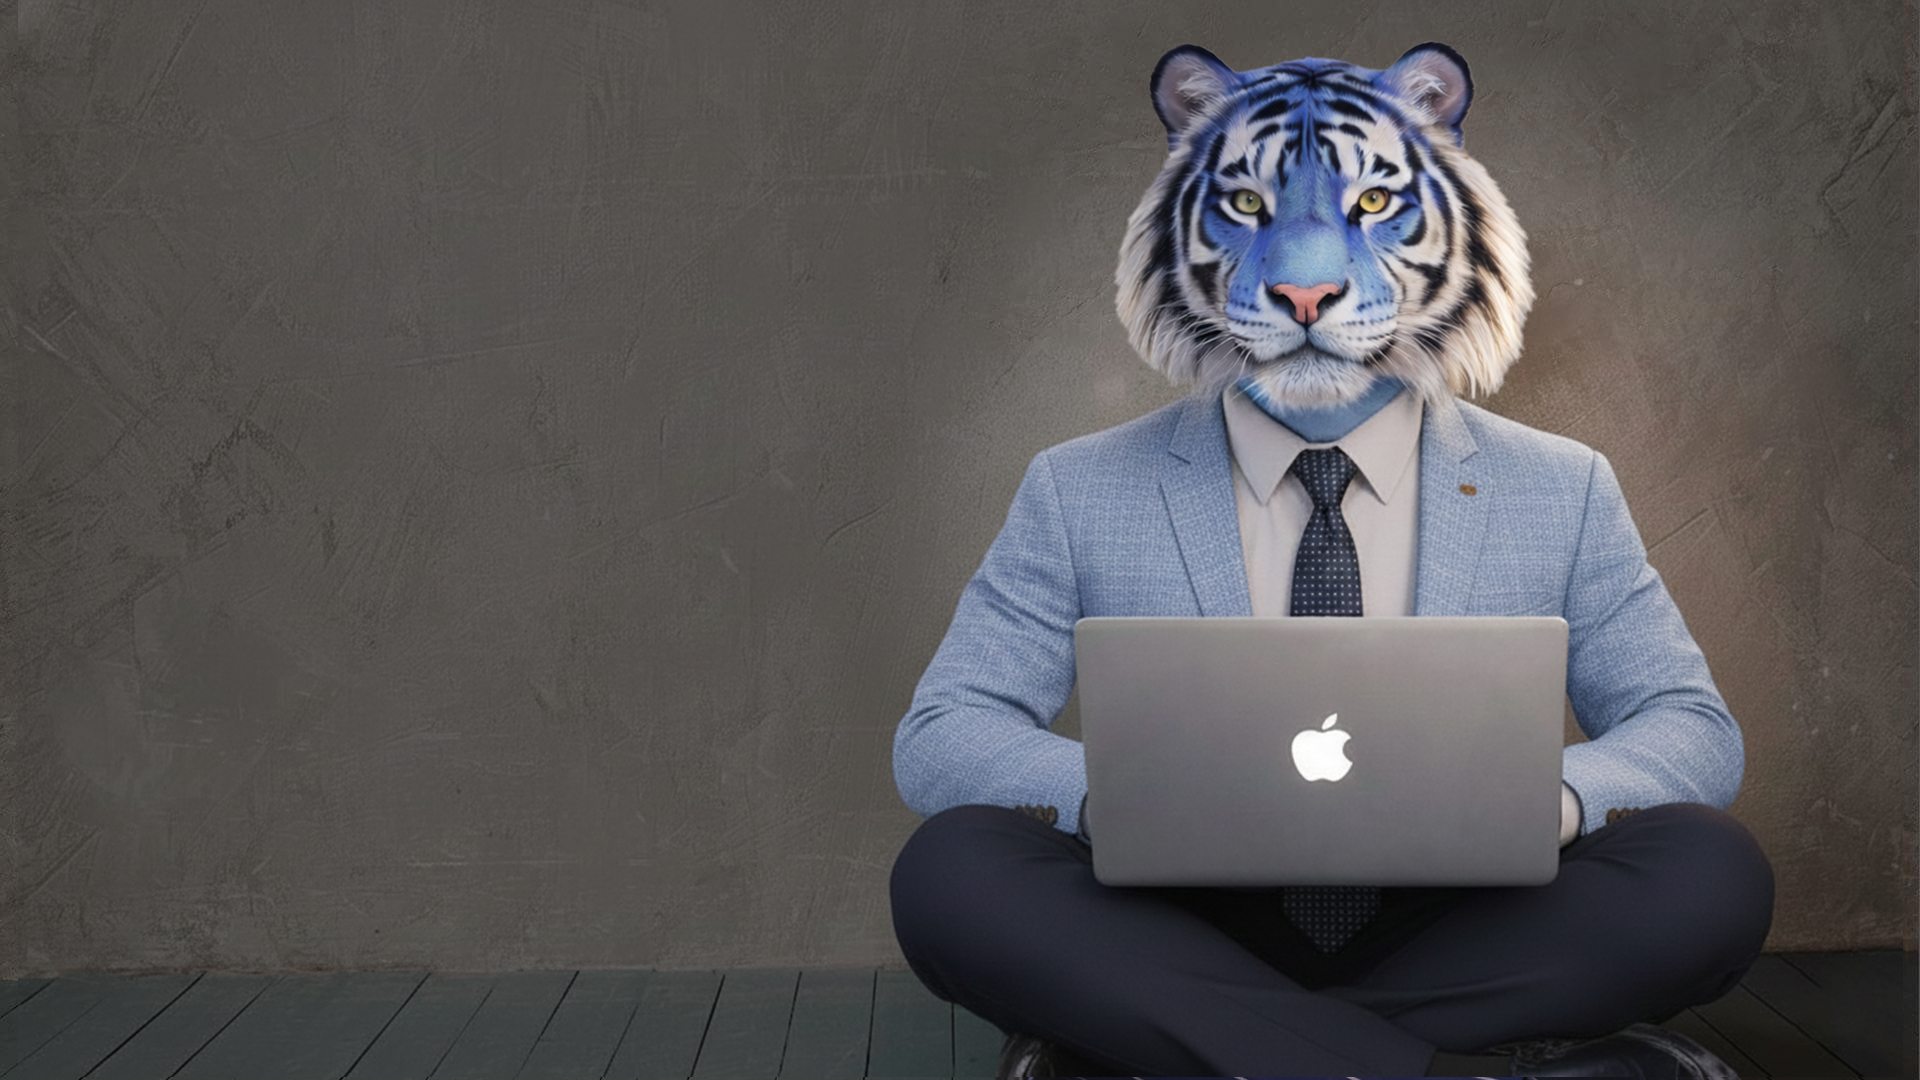
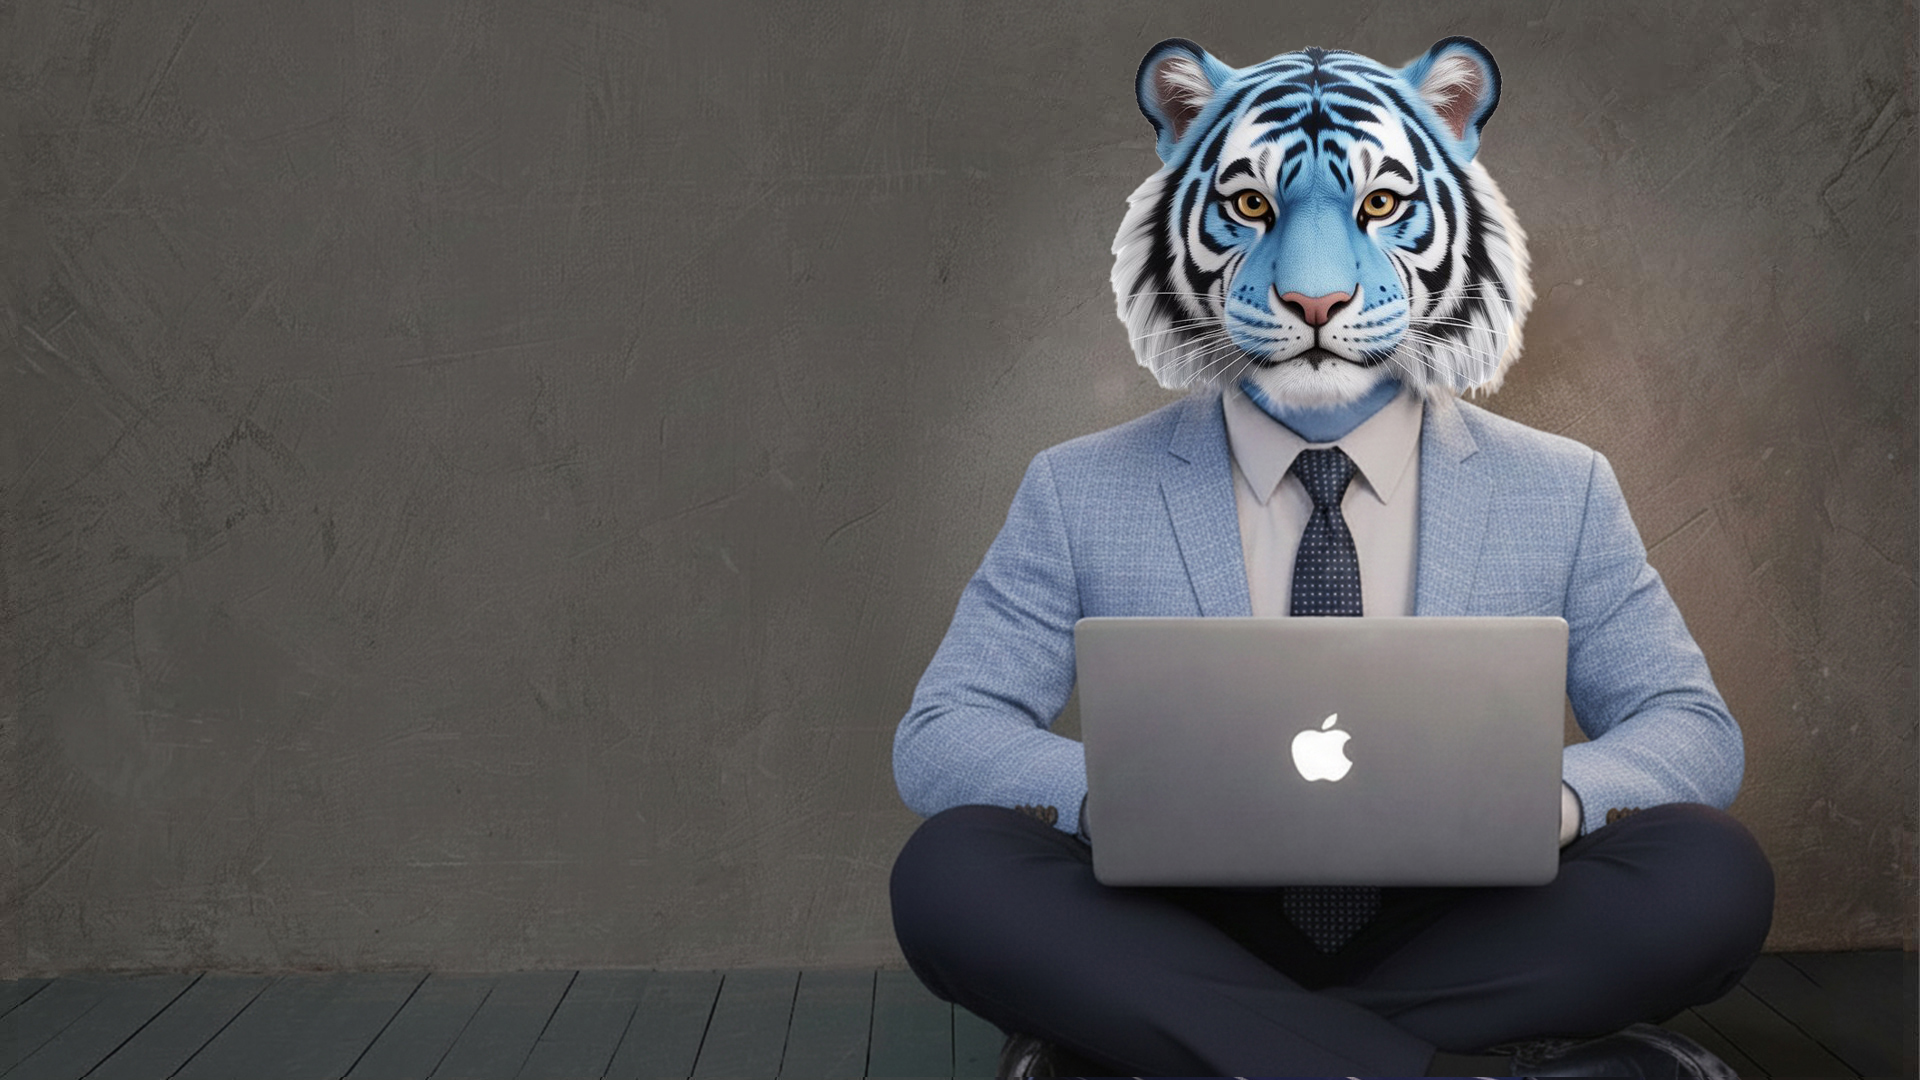
hero-section img chenge

Changed region(s): [[0.5625, 0.0306, 0.8125, 0.3667]]

diff --git a/assets/css/responsive.css b/assets/css/responsive.css
@@ -651,9 +651,7 @@
   .courseModules .feature-card .unordered-list {
     white-space: normal;
   }
-  .digital-main {
-    /* margin-top: 110px !important; */
-  }
+
   .seo-main {
     margin-top: 50px !important;
   }
@@ -829,13 +827,7 @@
     line-height: 18px;
     margin: 0;
   }
-  .bg1,
-  .bg2,
-  .bg3,
-  .bg4 {
-    /* height: 50vh; */
-    /* top: 115px; */
-  }
+
   nav{
     top: 25px;
   }
@@ -2235,12 +2227,7 @@
   .banner-img-box .circle1 {
     top: 90px;
   }
-  .bg1,
-  .bg2,
-  .bg3,
-  .bg4 {
-    /* top: 115px; */
-  }
+
   nav {
     top: 25px;
   }
@@ -2353,9 +2340,7 @@
   .ftr {
     padding-top: 0px;
   }
-  .breadcumb {
-    /* margin-top: 80px; */
-  }
+
   .abtinfo p.highlight-p {
     margin-bottom: 0 !important;
     font-size: 16px !important;
@@ -3528,12 +3513,7 @@
   .menu {
     height: 80px;
   }
-  .bg1,
-  .bg2,
-  .bg3,
-  .bg4 {
-    /* top: 130px; */
-  }
+
   #slide-show{
     height: 100vh;
     min-height: 100vh;

diff --git a/assets/css/contact.css b/assets/css/contact.css
@@ -65,7 +65,7 @@
 }
 /*.contactbanner {background:url(../image/slider/contact-page.jpg) no-repeat center;}*/
 .contactform {
-  background: url(../image/bg/bg3.png) no-repeat top right;
+  /* background: url(../image/bg/bg3.png) no-repeat top right; */
   background-color: #f4feff;
   position: relative;
   overflow: hidden;

diff --git a/index.php b/index.php
@@ -19,7 +19,8 @@ $canonical_url = "https://www.5trainers.com/index.php";
                 </div>
                 <div class="col-sm-6 col-md-6 col-lg-5">
                     <div class="banner-img-box">
-                        <img src="assets/image/slider/hero-benner.png" loading="lazy" class="bannerimg img-fluid" alt="image">
+                        <!-- <img src="assets/image/slider/benner.png" loading="lazy" class="bannerimg img-fluid" alt="image"> -->
+                        <img src="assets/image/slider/benners.png" loading="lazy" class="bannerimg img-fluid" alt="image">
                     </div>
                 </div>
             </div>
@@ -143,11 +144,11 @@ $canonical_url = "https://www.5trainers.com/index.php";
         </div>
     </div>
 </section><!--/about -->
-<section class="container-fluid pt pb meetOurExperts">
+<section class="container-fluid pt pb meetOurExperts loading='lazy' ">
     <div class="no-container width90">
         <div class="row">
             <div class="col-lg-7">
-                <div class="section-title-area white-heading">
+                <div class="section-title-area white-heading ">
                     <h3 data-aos="fade-up" data-aos-duration="1000" class="section-title">Explore Our Courses</h3>
                     <p data-aos="fade-up" data-aos-duration="1700" class="aos-init aos-animate">At 5Trainers, we
                         offer practical, job-ready digital marketing courses designed to empower beginners and
